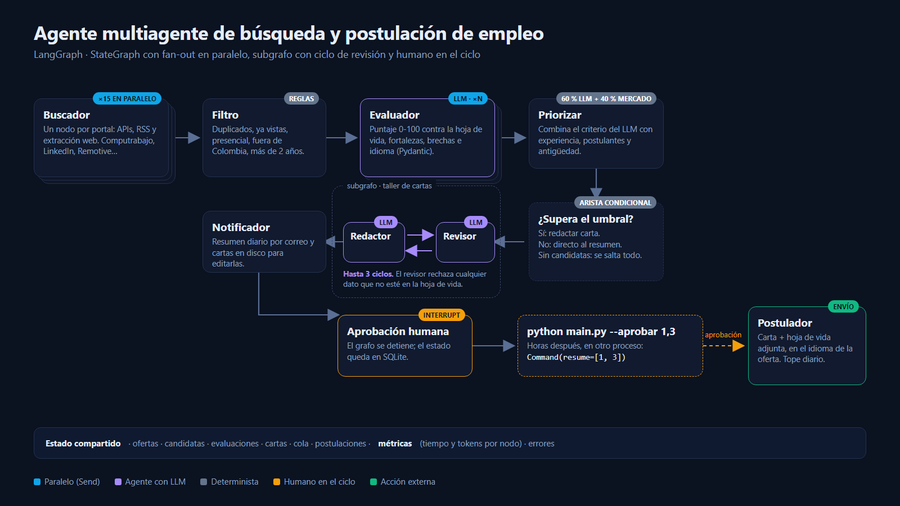
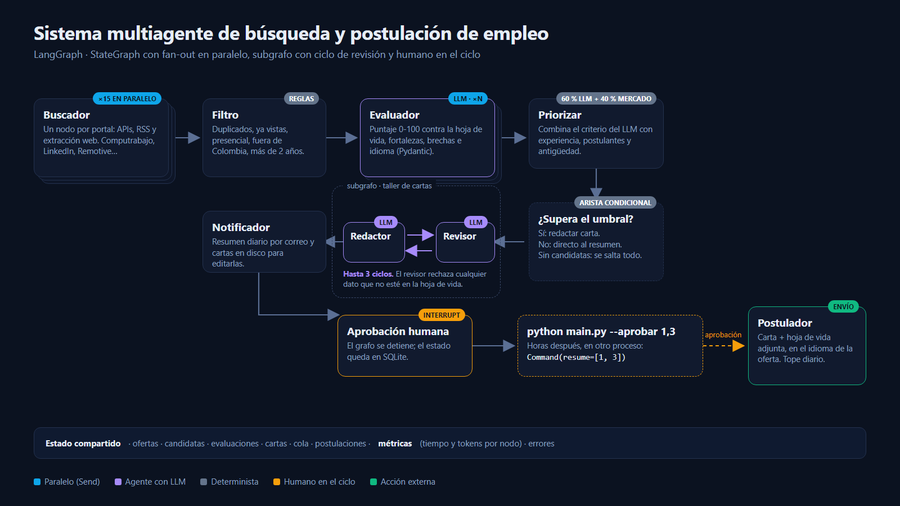
Renombra la tarjeta a Sistema Multiagente de Empleo

Changed region(s): [[0.0311, 0.0296, 0.6222, 0.0889]]

diff --git a/README.md b/README.md
@@ -71,7 +71,7 @@ Soy estudiante de **Matemáticas Aplicadas y Ciencias de la Computación** en la
 
 <tr>
 <td align="center" width="50%">
-<h5>Agente Multiagente de Empleo (LangGraph)</h5>
+<h5>Sistema Multiagente de Empleo (LangGraph)</h5>
 <img src="agente_empleo.png" width="450">
 <br>
 <a href="https://github.com/CARLYGP/Agente_Empleo_LangGraph">
@@ -138,7 +138,7 @@ I am a student of **Applied Mathematics and Computer Science** at the University
 
 <tr>
 <td align="center" width="50%">
-<h5>Multi-Agent Job Search Agent (LangGraph)</h5>
+<h5>Multi-Agent Job Search System (LangGraph)</h5>
 <img src="agente_empleo.png" width="450">
 <br>
 <a href="https://github.com/CARLYGP/Agente_Empleo_LangGraph">
